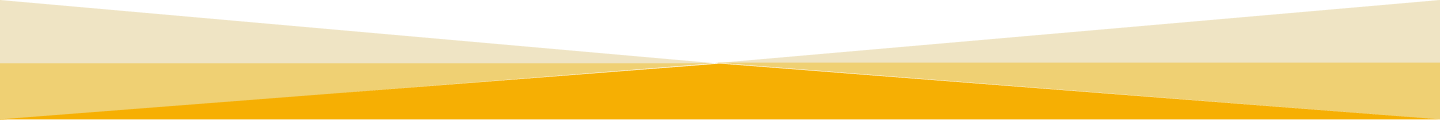
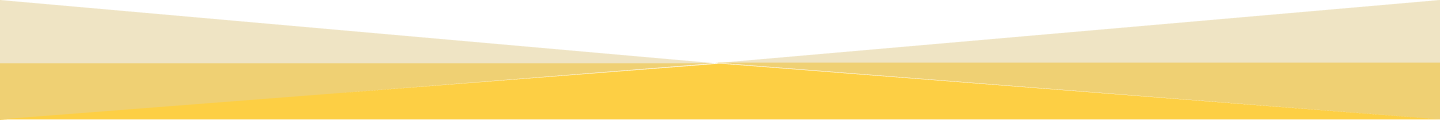
demanded changes

Changed region(s): [[0.0, 0.525, 1.0, 1.0]]

diff --git a/src/app/page.js b/src/app/page.js
@@ -41,6 +41,22 @@ export default async function Home() {
         height={186}
         className="divider"
       />
+      <div style={{ textAlign: "center" }}>
+        <strong>
+          <p>Olá, você está buscando lidar com seu sofrimento?</p>
+        </strong>
+        <p>
+          Busca acolhimento, quer apoio, orientação profissional e humanizada
+          para se cuidar, se fortalecer, se desenvolver?
+        </p>
+        <p>
+          Você pode fazer psicoterapia sem sair de casa e ter ajuda de uma
+          psicóloga para construir a ponte para novos caminhos e novos
+          significados em sua vida!
+        </p>
+        <p>Seja bem vindo (a) ao meu consultório on-line!</p>
+        <p>Deixa eu me apresentar!</p>
+      </div>
       <section className="about container">
         <Link href="/about" className="mobile button">
           Conheça mais sobre mim
@@ -57,12 +73,13 @@ export default async function Home() {
         <div className="text-container">
           <h2 className="section-title">Sobre mim</h2>
           <p>
-            Olá, me chamo Tatiana. Sou psicóloga e ofereço atendimento de forma
-            on-line para pessoas adultas. Se você sofre de alguma forma em razão
-            de traumas e gostaria de tratá-los para conquistar uma vida mais
-            fluída, leve com mais realizações, ou mesmo, se quer investir no seu
-            autoconhecimento, bem estar e resiliência para os desafios da vida.
-             Posso te ajudar!
+            Me chamo Tatiana, sou psicóloga e psicoterapeuta (CRP 06.80456).
+          </p>
+          <p>
+            Se você sofre de alguma forma em razão de traumas e gostaria de
+            tratá-los para conquistar uma vida mais fluída, leve com mais
+            realizações, ou mesmo, se quer investir no seu autoconhecimento, bem
+            estar e resiliência para os desafios da vida, posso te ajudar! 
           </p>
           <p>
             Ofereço atendimentos para pessoas que buscam tratar sofrimentos,
@@ -74,15 +91,17 @@ export default async function Home() {
           </p>
           <p>
             Não pratico apenas uma, mas diferentes abordagens de psicoterapias
-            respaldadas cientificamente para poder oferecer um conjunto de
-            estratégias e técnicas, com o objetivo de atender cada vez mais,
-            melhor e com mais eficiência a cada situação e pessoa.
+            respaldadas cientificamente para poder oferecer além de uma escuta
+            atenta, empática e acolhedora, também um conjunto de estratégias e
+            técnicas, com o objetivo de atender cada vez melhor e com mais
+            eficiência a cada pessoa e situação.
           </p>
           <p>
-            Então, se você sofre de alguma forma em razão de traumas e gostaria
-            de tratá-los ou mesmo, se quer investir no seu bem estar individual
-            e relacional, autoconhecimento, crescimento  pessoal, desenvolver
-            sua  resiliência, entre em contato! Posso ajudar!
+            Então, se você sofre de alguma forma e quer investir no seu bem
+            estar, quer se relacionar melhor, aprender se autorregular
+            emocionalmente, desenvolver sua  resiliência. Enfim, se busca cuidar
+            da sua saúde emocional e desenvolvimento pessoal, entre em contato!
+            Posso ajudar!
           </p>
           <Link href="" className="button desktop">
             Conheça mais sobre mim

diff --git a/src/app/globals.scss b/src/app/globals.scss
@@ -1,9 +1,9 @@
 @import url("./reset.module.css");
 
 :root {
-  --blue: #04849c;
+  --blue: #208f7c;
   --white: #fff;
-  --yellow: #f5b700;
+  --yellow: #eec23f;
   --headerHeight: 62px;
 }
 
@@ -50,16 +50,16 @@ main {
   }
 
   .text-container {
-    margin-top: 11.125rem;
+    margin-top: 5.125rem;
     height: min-content;
     padding: 1rem;
     border-radius: 8px;
 
     small {
-      font-size: 14px;
+      font-size: 22px;
       font-weight: bold;
       text-align: left;
-      color: var(--blue);
+      color: var(--yellow);
       position: relative;
 
       &::after {
@@ -76,7 +76,7 @@ main {
     }
 
     h1 {
-      font-size: 98px;
+      font-size: 78px;
       font-weight: bold;
       margin-bottom: 12px;
 
@@ -85,7 +85,7 @@ main {
       }
 
       span:last-child {
-        color: var(--white);
+        color: var(--blue);
       }
     }
 
@@ -147,6 +147,7 @@ main {
       font-size: 18px;
       line-height: 125%;
       margin-bottom: 2rem;
+      text-align: justify;
     }
   }
 
@@ -221,7 +222,6 @@ main {
     position: relative;
     align-self: self-start;
 
-
     &::after {
       --bg-padding: 12px;
       content: "";
@@ -271,7 +271,7 @@ main {
 .contact {
   display: flex;
   flex-direction: column;
-  align-items: center;  
+  align-items: center;
   padding: 2rem 4rem;
   background-image: url("/contact-background.jpg");
   background-size: cover;

diff --git a/src/app/posts/[slug]/styles.module.scss b/src/app/posts/[slug]/styles.module.scss
@@ -1,7 +1,9 @@
 .imgWrapper {
   height: 300px;
   background-image: url(../../../../public/hero-cover.png);
-  background-position: center 20%;
+  background-position: center 77%;
+  background-size: cover;
+  background-repeat: no-repeat;
 }
 
 .cover {
@@ -37,7 +39,7 @@
   ul {
     list-style-position: inside;
   }
-  
+
   @media screen and (max-width: 750px) {
     padding: 1rem;
   }

diff --git a/src/app/components/ContactForm/index.js b/src/app/components/ContactForm/index.js
@@ -53,7 +53,7 @@ function ContactForm() {
         </p>
         <p className="input-wrapper">
           <label htmlFor="name">
-            Seu nome
+            Sua mensagem
             <textarea
               name="message"
               id="message"
